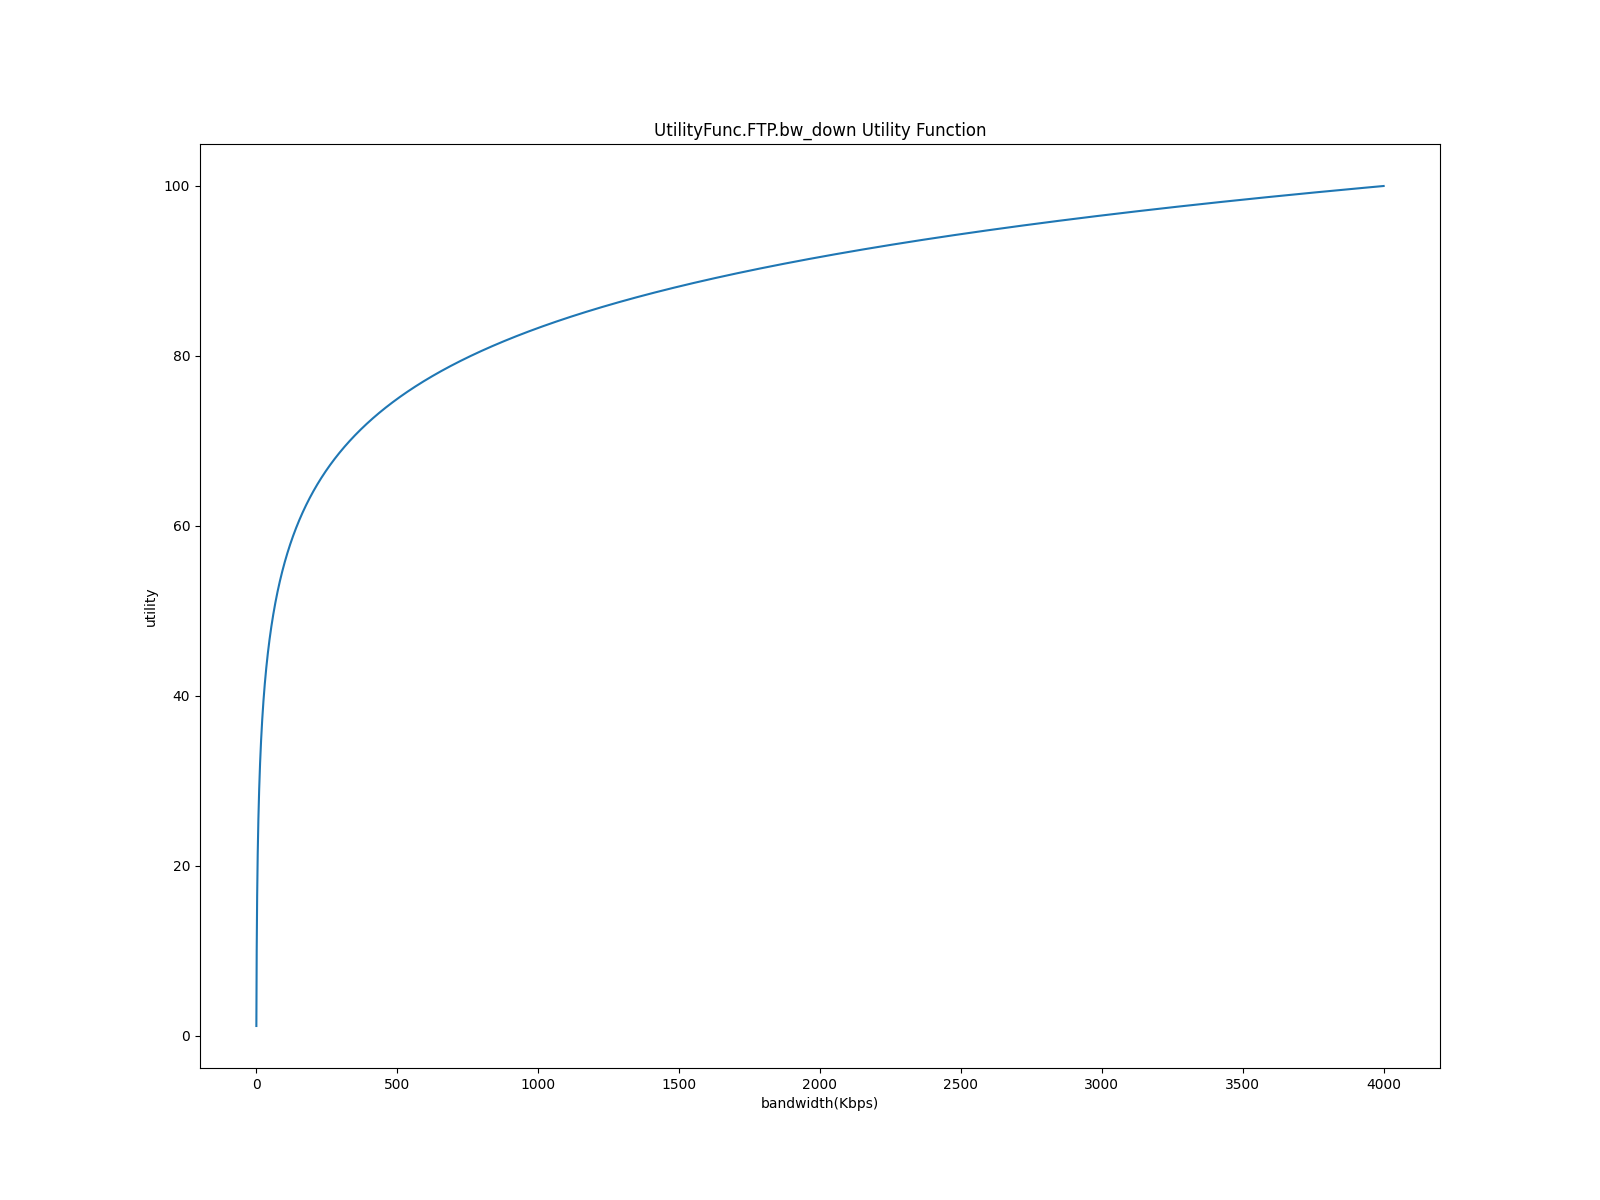
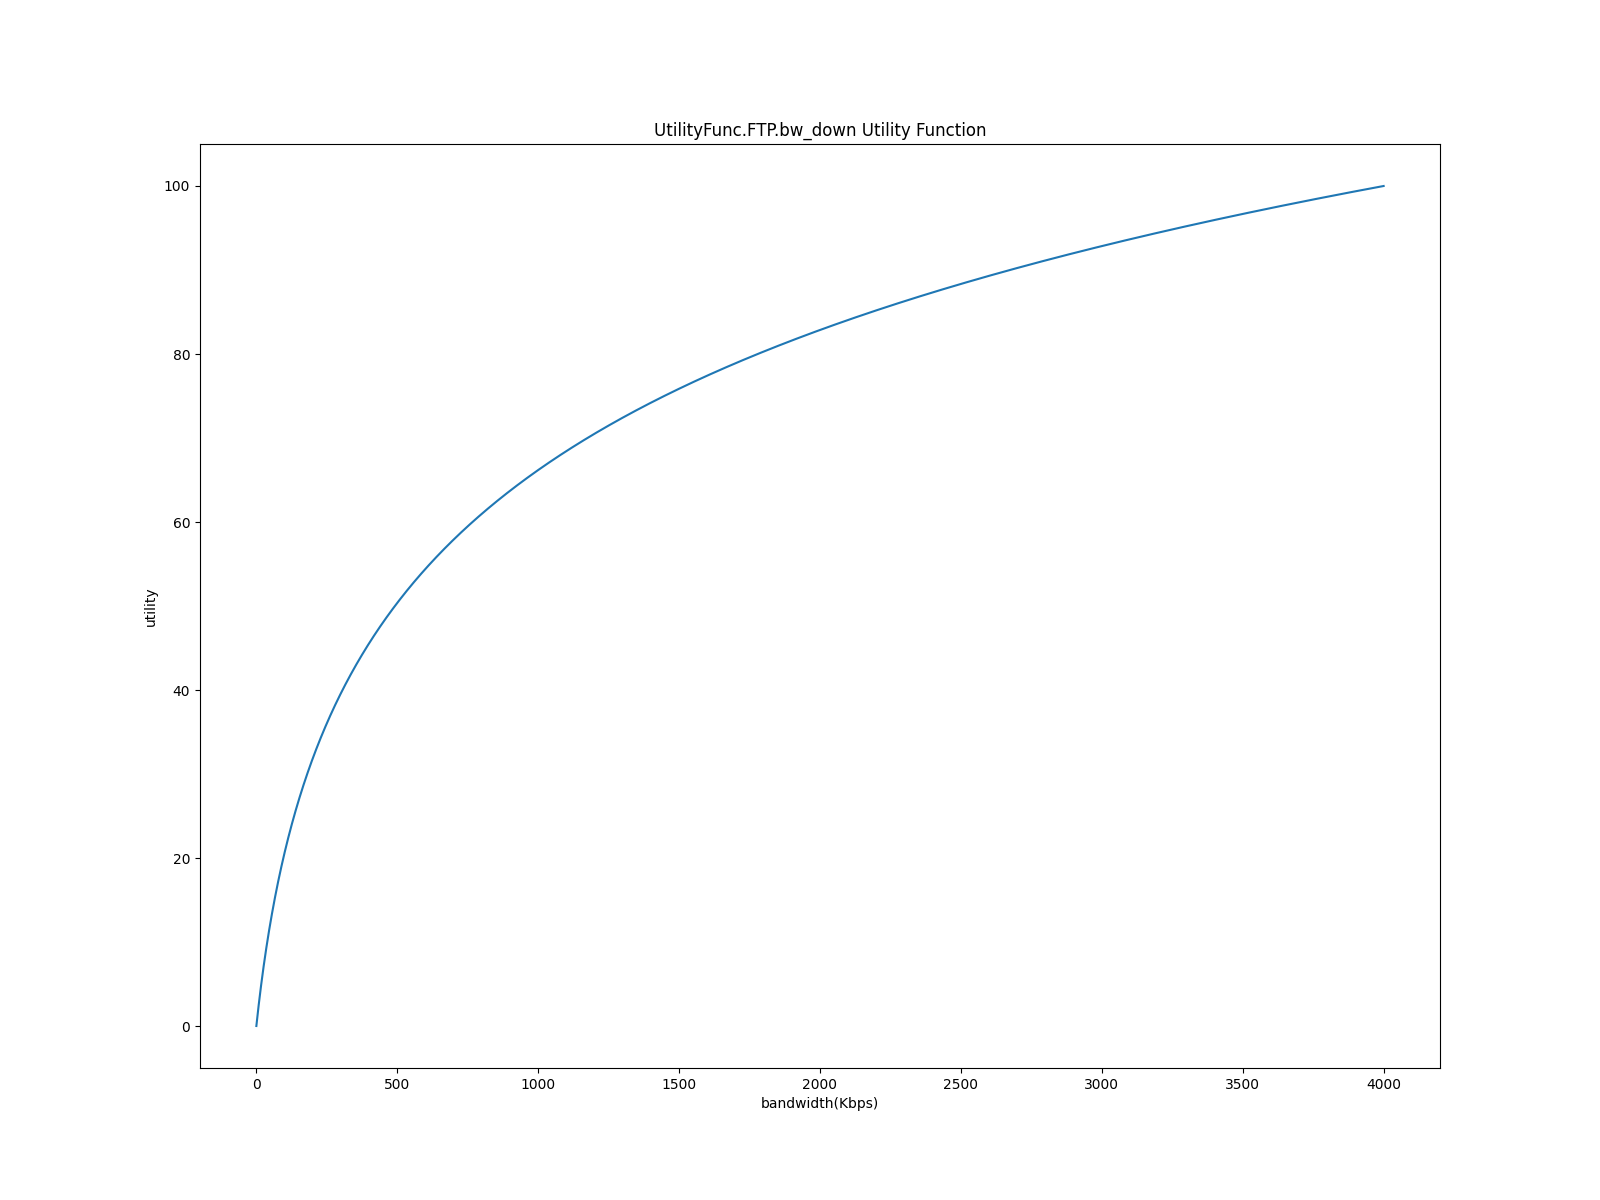
change FTP utility slope.

Changed region(s): [[0.1562, 0.6783, 0.1875, 0.8325], [0.75, 0.1542, 0.8438, 0.185]]

diff --git a/baselines/Random/task_deployment.py b/baselines/Random/task_deployment.py
@@ -71,12 +71,12 @@ class UtilityFunc:
         @staticmethod
         def bw_up(bw: float) -> float:
             bw = min(bw, ftp_bw_up_bmax)
-            return max_score * math.log10(bw + 1) / math.log10(ftp_bw_up_bmax + 1)
+            return max_score * math.log10(bw / 10 + 1) / math.log10(ftp_bw_up_bmax / 10 + 1)
 
         @staticmethod
         def bw_down(bw: float) -> float:
             bw = min(bw, ftp_bw_down_bmax)
-            return max_score * math.log10(bw + 1) / math.log10(ftp_bw_down_bmax + 1)
+            return max_score * math.log10(bw / 80 + 1) / math.log10(ftp_bw_down_bmax / 80 + 1)
 
         @staticmethod
         def cr(cr: float) -> float:

diff --git a/baselines/VM Load Balance/task_deployment.py b/baselines/VM Load Balance/task_deployment.py
@@ -71,12 +71,12 @@ class UtilityFunc:
         @staticmethod
         def bw_up(bw: float) -> float:
             bw = min(bw, ftp_bw_up_bmax)
-            return max_score * math.log10(bw + 1) / math.log10(ftp_bw_up_bmax + 1)
+            return max_score * math.log10(bw / 10 + 1) / math.log10(ftp_bw_up_bmax / 10 + 1)
 
         @staticmethod
         def bw_down(bw: float) -> float:
             bw = min(bw, ftp_bw_down_bmax)
-            return max_score * math.log10(bw + 1) / math.log10(ftp_bw_down_bmax + 1)
+            return max_score * math.log10(bw / 80 + 1) / math.log10(ftp_bw_down_bmax / 80 + 1)
 
         @staticmethod
         def cr(cr: float) -> float:

diff --git a/task_deployment.py b/task_deployment.py
@@ -72,12 +72,12 @@ class UtilityFunc:
         @staticmethod
         def bw_up(bw: float) -> float:
             bw = min(bw, ftp_bw_up_bmax)
-            return max_score * math.log10(bw + 1) / math.log10(ftp_bw_up_bmax + 1)
+            return max_score * math.log10(bw / 10 + 1) / math.log10(ftp_bw_up_bmax / 10 + 1)
 
         @staticmethod
         def bw_down(bw: float) -> float:
             bw = min(bw, ftp_bw_down_bmax)
-            return max_score * math.log10(bw + 1) / math.log10(ftp_bw_down_bmax + 1)
+            return max_score * math.log10(bw / 80 + 1) / math.log10(ftp_bw_down_bmax / 80 + 1)
 
         @staticmethod
         def cr(cr: float) -> float:
